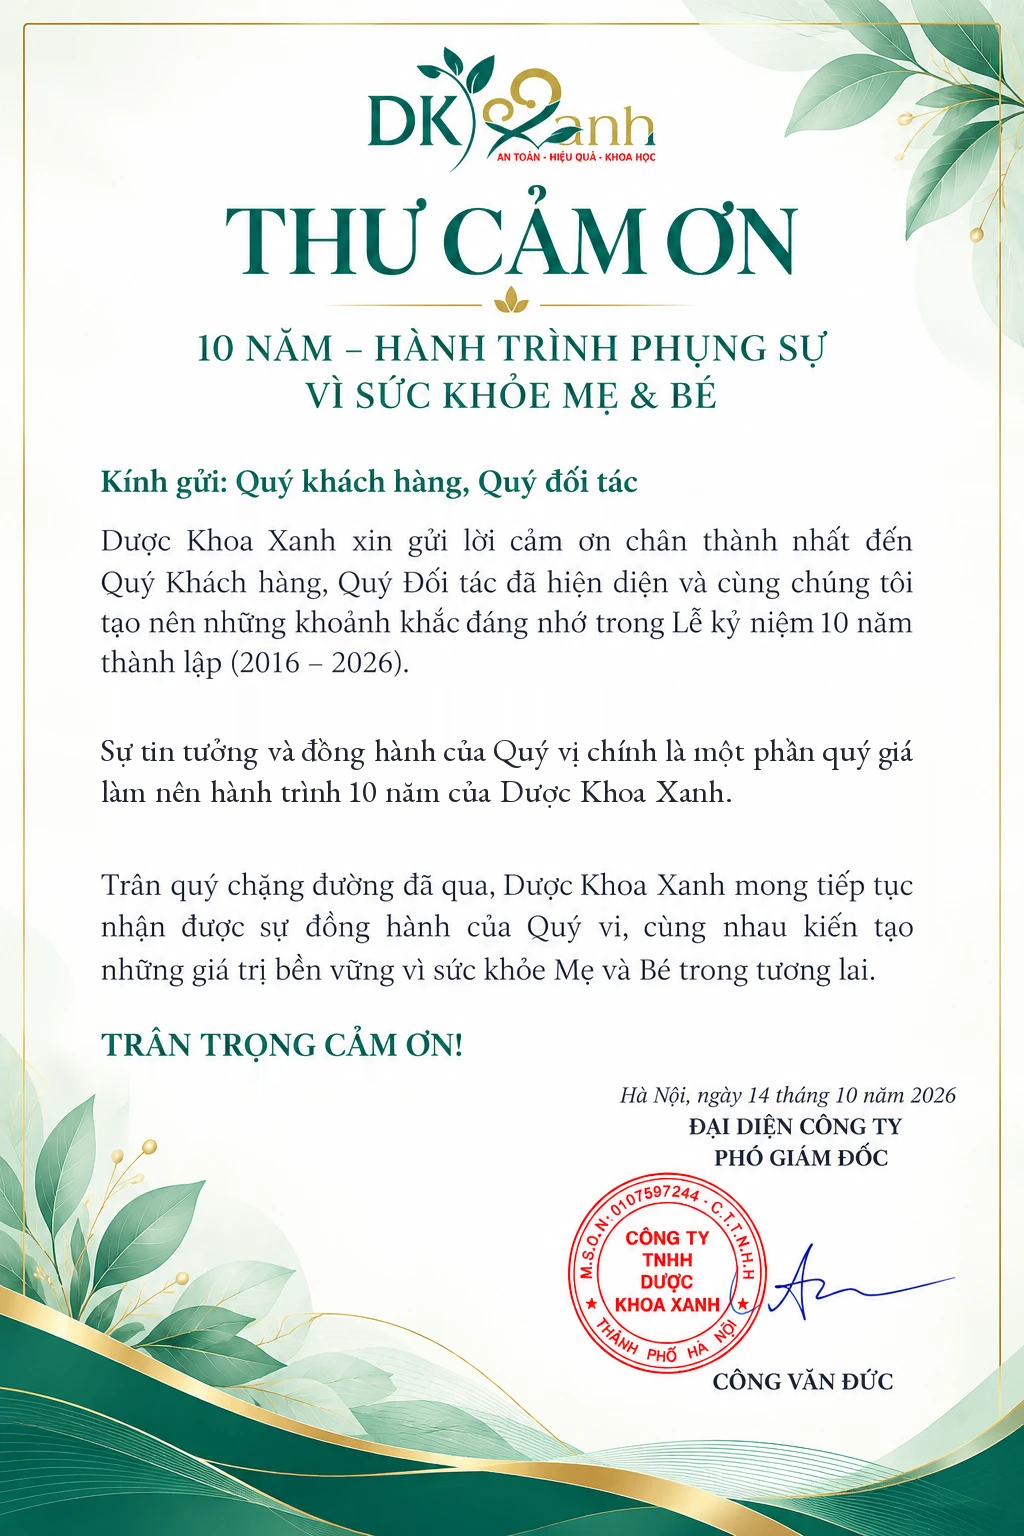
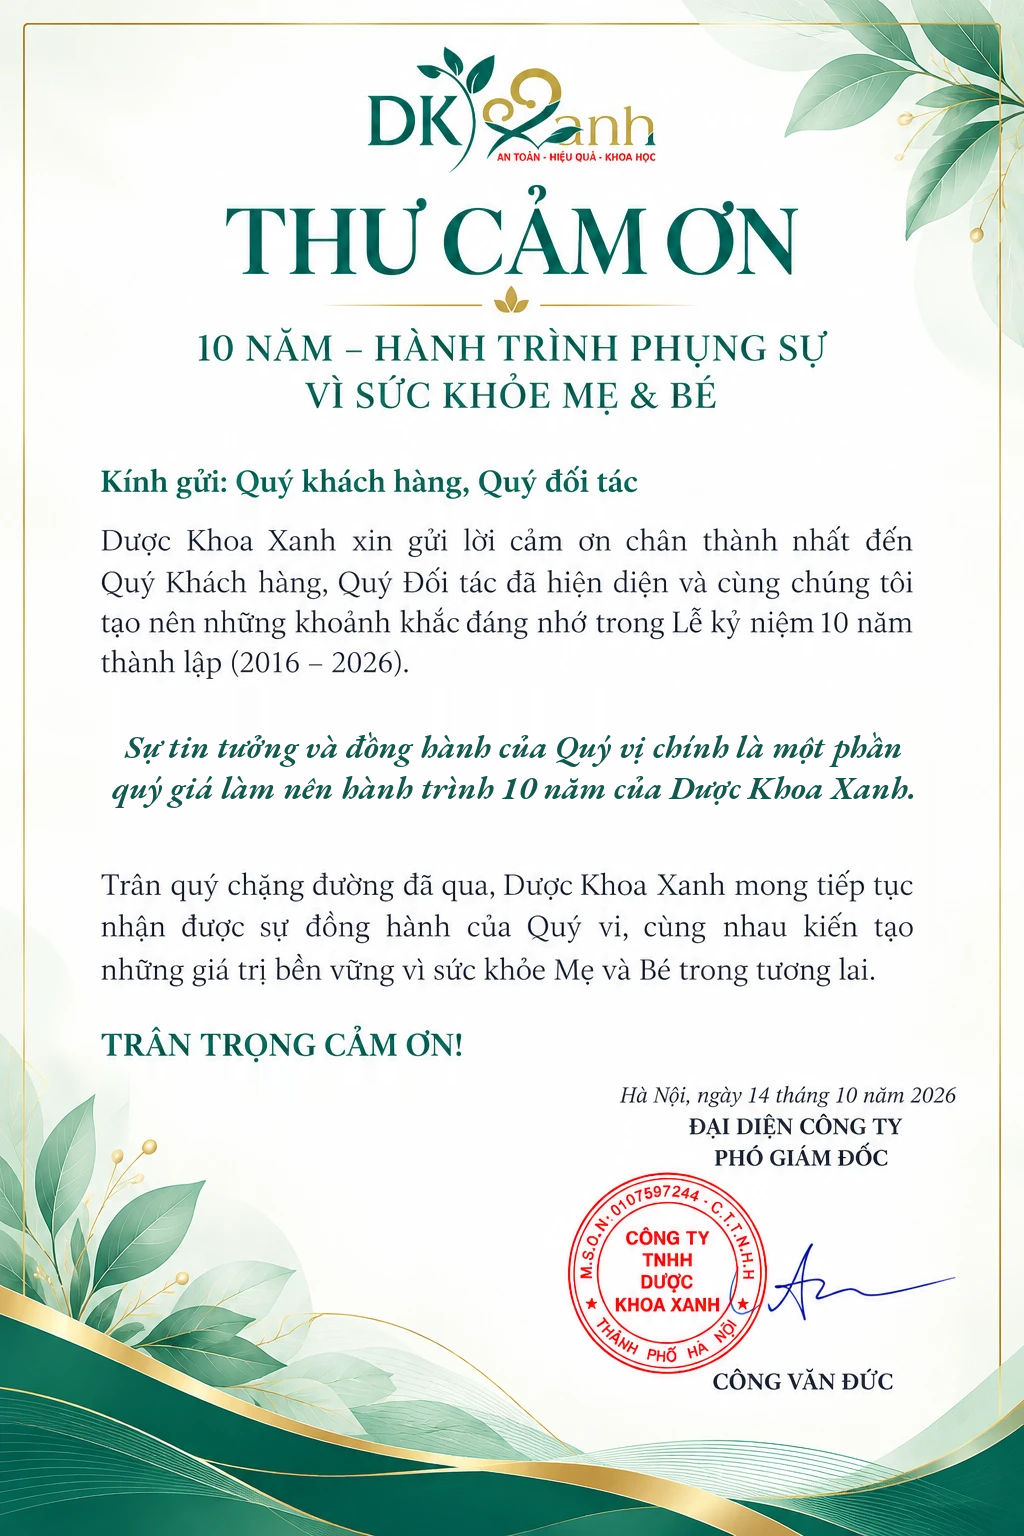
Thư cảm ơn 10 năm: đoạn 2 giữ màu, đậm, nghiêng, căn giữa — chỉ đổi phông
Claude-Session: https://claude.ai/code/session_01ChBN7WqptiUTPmLrvNjoaz

Changed region(s): [[0.0938, 0.4688, 0.9062, 0.5312]]

diff --git a/CLAUDE.md b/CLAUDE.md
@@ -181,7 +181,7 @@ Danh mục sản phẩm/                      ← phân loại sản phẩm côn
 │   └── Phân tích công dụng sản phẩm.docx   ← bản .docx xuất từ file .md cùng tên
 └── Câu hỏi làm rõ.md                   ← điểm chưa chắc chắn cần Nhi xác nhận
 Thư cảm ơn 10 năm/                      ← thư cảm ơn khách hàng/đối tác dự Lễ kỷ niệm 10 năm (14/10/2026)
-└── Thu cam on 10 nam - ban sua.png     ← bản sửa từ ảnh Nhi gửi: bỏ 3 gạch vàng trong thân thư, đoạn "Sự tin tưởng..." đổi sang chữ thường như thân thư, thân thư căn đều 2 bên; phần đầu và chữ ký giữ nguyên
+└── Thu cam on 10 nam - ban sua.png     ← bản sửa từ ảnh Nhi gửi: bỏ 3 gạch vàng trong thân thư, đoạn "Sự tin tưởng..." chỉ đổi phông sang phông thân thư (giữ màu xanh, đậm, nghiêng, căn giữa), các đoạn còn lại căn đều 2 bên; phần đầu và chữ ký giữ nguyên
 Báo cáo tuần/                           ← báo cáo công việc tuần gửi cấp trên, mỗi tuần 1 bộ file
 ├── Mẫu gốc công ty - Bao cao ket qua tuan DKX (phong ban).docx  ← ⭐ MẪU CHÍNH THỨC sếp cung cấp, bản dùng cho phòng ban; có header logo + MST công ty. Khung O-P-I: I. Tổng kết kết quả tuần (1.1 bảng Mục tiêu/Kế hoạch/Thực hiện/Note → 1.2 bảng Mục tiêu/Yếu tố/Giải pháp/Note → 1.3 số liệu → 1.4 yếu tố quản trị O-P-I → 1.5 nhân sự) → II. Tổng kết (tài sản gia tăng / rủi ro cần tránh) → III. Kiến nghị BGĐ (5 nhóm) → IV. Kế hoạch tuần tới. Cuối file có phần "Lưu ý" hướng dẫn: nhân viên BP Kinh doanh có 3 mục tiêu trọng tâm = (1) khách hàng mới/cũ, (2) giá trị cốt lõi DN, (3) phát triển năng lực bản thân
 ├── Mẫu DKX (cá nhân) - Báo cáo kết quả công việc tuần ....docx  ← bản cá nhân của Nhi dựng từ mẫu gốc trên (sửa trực tiếp file nên giữ nguyên header/logo/font). Khác bản phòng ban: 1.5 đổi thành "Tự đánh giá bản thân", bỏ phần "Lưu ý" hướng dẫn và phần mục tiêu của Trưởng bộ phận. Đây là bản dùng để gửi sếp
